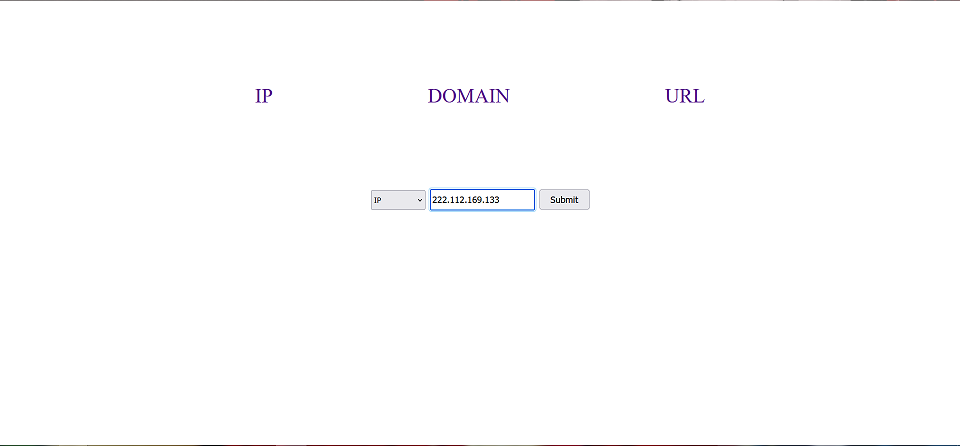
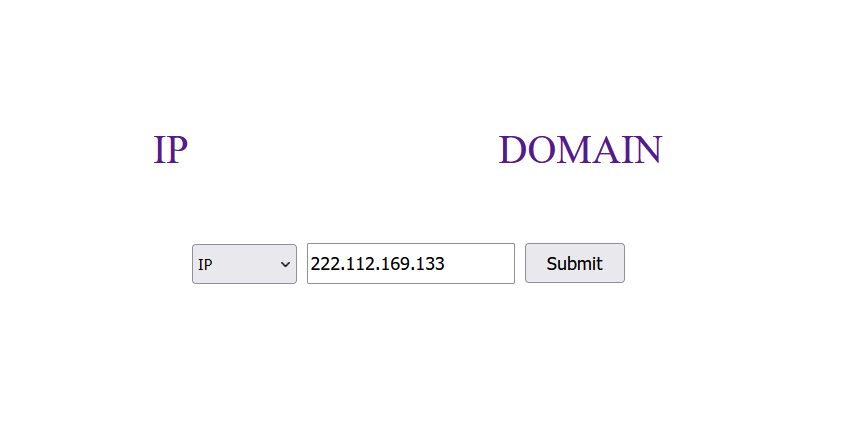
D:29-04T:13-18

diff --git a/README.md b/README.md
@@ -26,7 +26,6 @@
    
 
 5. End Points : 
-    - `api/url`  : to fetch urls
     - `api/domain`  : to fetch domains
     - `api/ip`  : to fetch ips
 
@@ -40,7 +39,6 @@
 
 - **IP** : to fetch IPs
 - **DOMAIN** : to fetch Domains
-- **URL** : to fetch URL
 - **Search box** : to search specific content
 
 <img src="homepage.png" alt="homepage.png" />
